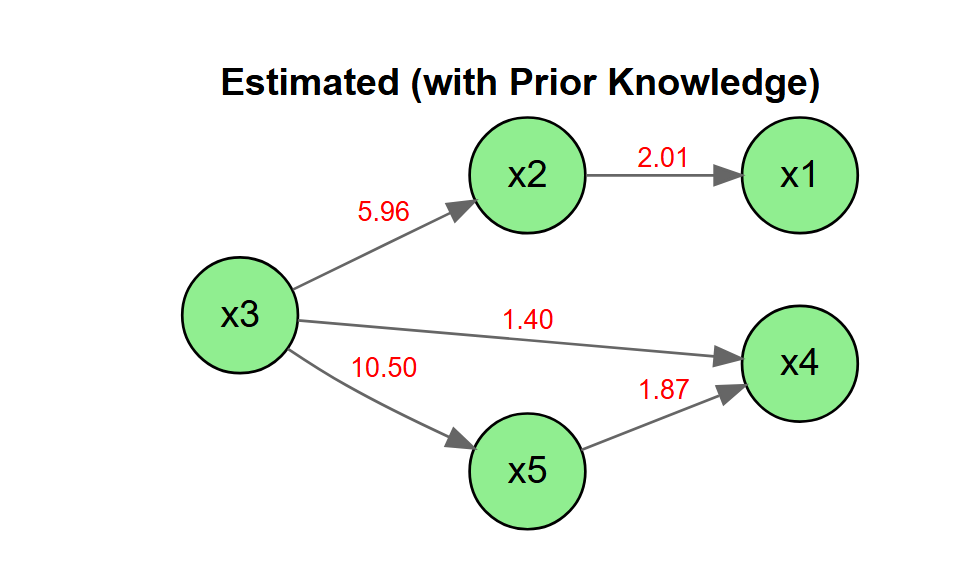
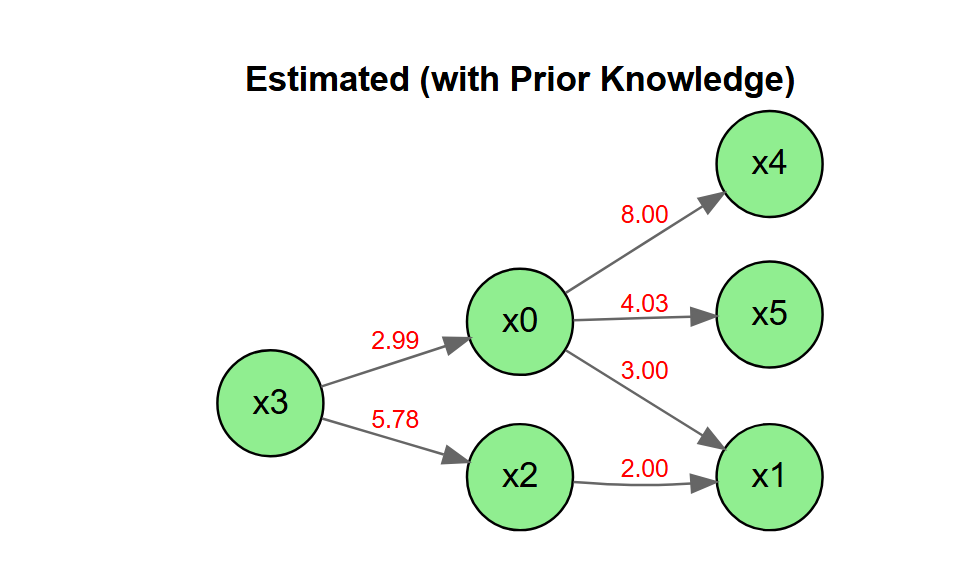
細かいデバッグ

diff --git a/README.md b/README.md
@@ -46,7 +46,8 @@ pak::pak("morimotoosamu/DirectLiNGAM")
 
 ## Example
 
-# <https://lingam.readthedocs.io/en/latest/tutorial/lingam.html> を再現する
+<https://lingam.readthedocs.io/en/latest/tutorial/lingam.html>
+を再現する
 
 サンプルデータの呼び出しとDirect LiNGAMの実行。
 
@@ -128,35 +129,35 @@ X <- LiNGAM_sample_1000
 pk1 <- make_prior_knowledge(
   n_variables         = 6,
   exogenous_variables = 4,  #外生変数x3は4個目の変数
-  sink_variables = c(1,2,5) #シンク変数x1, x4, x5は2,5,6個目の変数
+  sink_variables = c(2, 5, 6) #シンク変数x1, x4, x5は2,5,6個目の変数
 )
 
 pk1
 #>      [,1] [,2] [,3] [,4] [,5] [,6]
-#> [1,]   -1    0   -1   -1    0   -1
-#> [2,]    0   -1   -1   -1    0   -1
-#> [3,]    0    0   -1   -1    0   -1
+#> [1,]   -1    0   -1   -1    0    0
+#> [2,]   -1   -1   -1   -1    0    0
+#> [3,]   -1    0   -1   -1    0    0
 #> [4,]    0    0    0   -1    0    0
-#> [5,]    0    0   -1   -1   -1   -1
-#> [6,]    0    0   -1   -1    0   -1
+#> [5,]   -1    0   -1   -1   -1    0
+#> [6,]   -1    0   -1   -1    0   -1
 
 model_pk1 <- direct_lingam(X, prior_knowledge = pk1)
 
 # 因果順
 colnames(X)[model_pk1$causal_order]
-#> [1] "x3" "x2" "x5" "x0" "x4" "x1"
+#> [1] "x3" "x0" "x2" "x1" "x4" "x5"
 
 # 影響力マトリクス
 B_pk <- model_pk1$adjacency_matrix
 colnames(B_pk) <- rownames(B_pk) <- colnames(X)
 round(B_pk, 3)
-#>    x0 x1     x2     x3 x4    x5
-#> x0  0  0  0.005  0.180  0 0.234
-#> x1  0  0  2.012  0.552  0 0.697
-#> x2  0  0  0.000  5.957  0 0.000
-#> x3  0  0  0.000  0.000  0 0.000
-#> x4  0  0 -0.956  1.399  0 1.870
-#> x5  0  0  0.235 10.496  0 0.000
+#>       x0 x1     x2     x3 x4 x5
+#> x0 0.000  0  0.000  2.994  0  0
+#> x1 2.996  0  1.996 -0.022  0  0
+#> x2 0.060  0  0.000  5.776  0  0
+#> x3 0.000  0  0.000  0.000  0  0
+#> x4 8.002  0 -0.997 -0.056  0  0
+#> x5 4.028  0 -0.007 -0.118  0  0
 
 plot_adjacency_diagrammer(
   B_pk,
